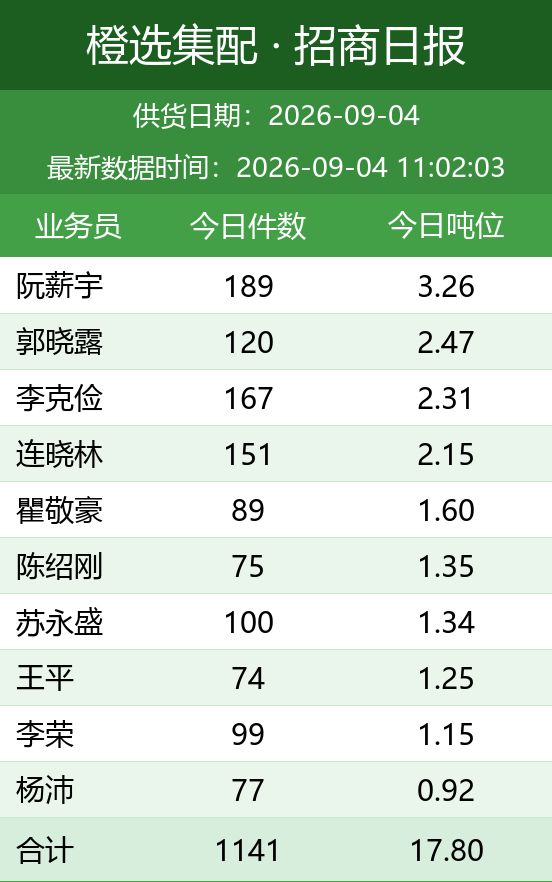
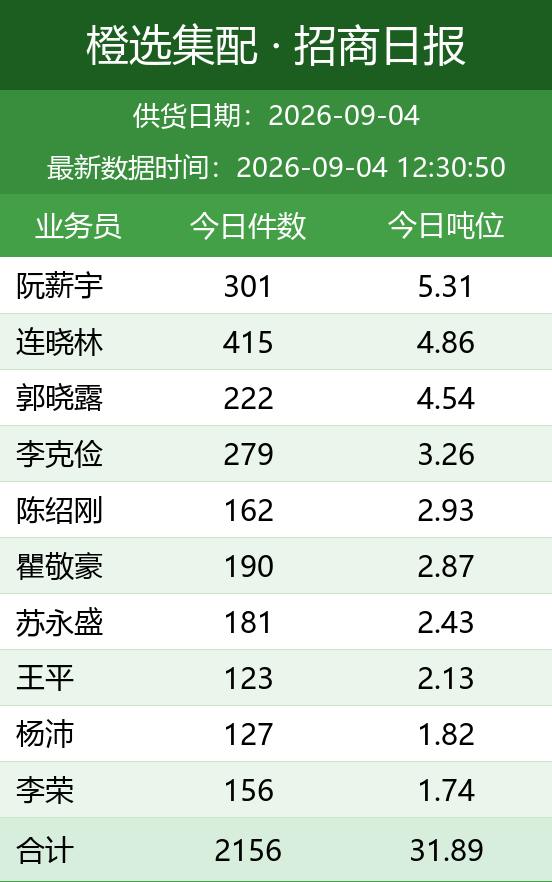
自动更新日报图片

diff --git a/index.html b/index.html
@@ -11,7 +11,7 @@ img { max-width: 100%; border: 1px solid #e5e5e5; margin-bottom: 24px; display: 
 </style>
 </head>
 <body>
-<h1>橙选集配日报图片（20260904_110208）</h1>
+<h1>橙选集配日报图片（20260904_123055）</h1>
 <img src="bd_latest.png" alt="BD 日报">
 <img src="wh_latest.png" alt="城市仓日报">
 <img src="zs_latest.png" alt="招商日报">
